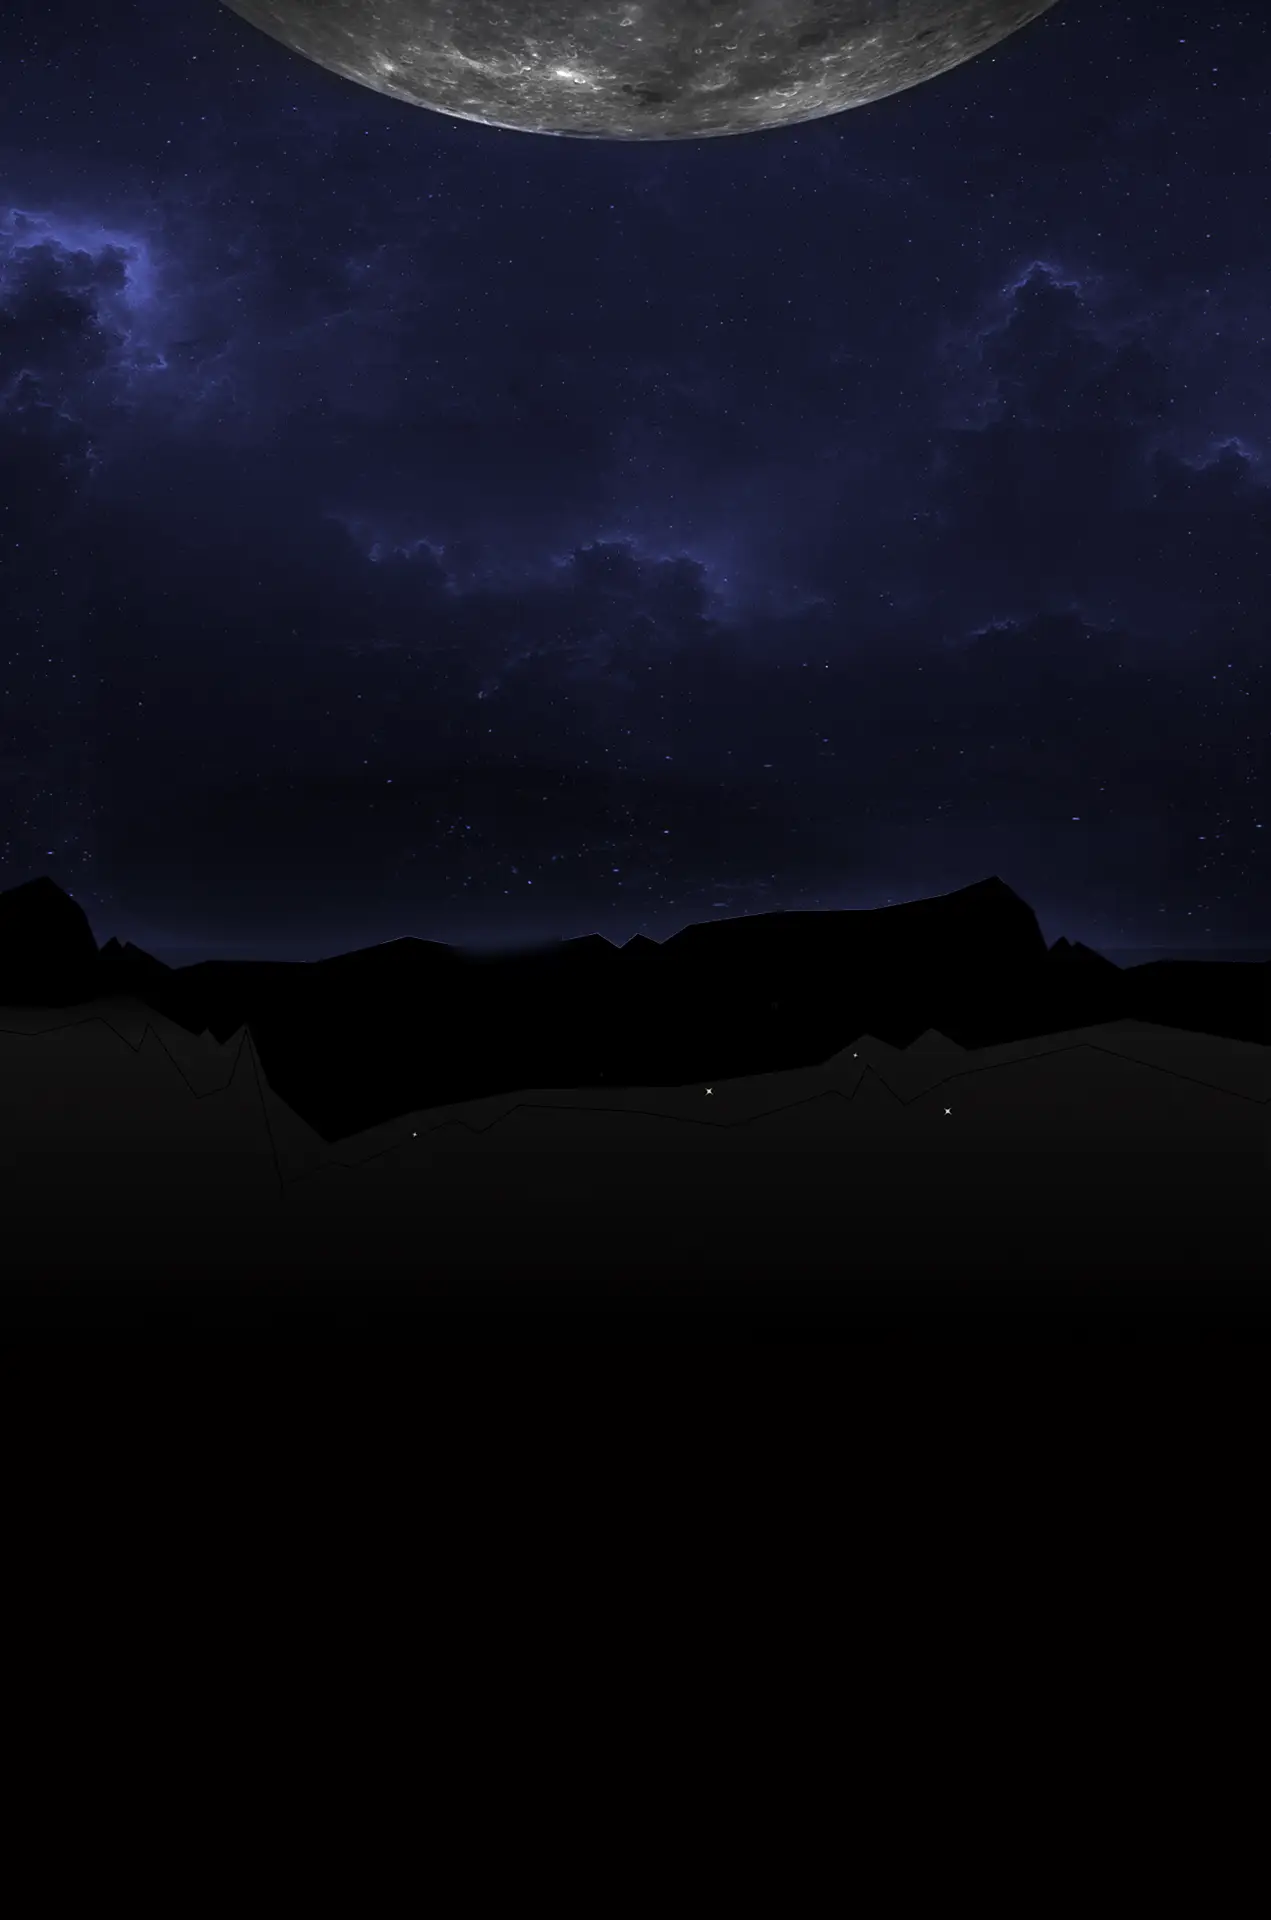
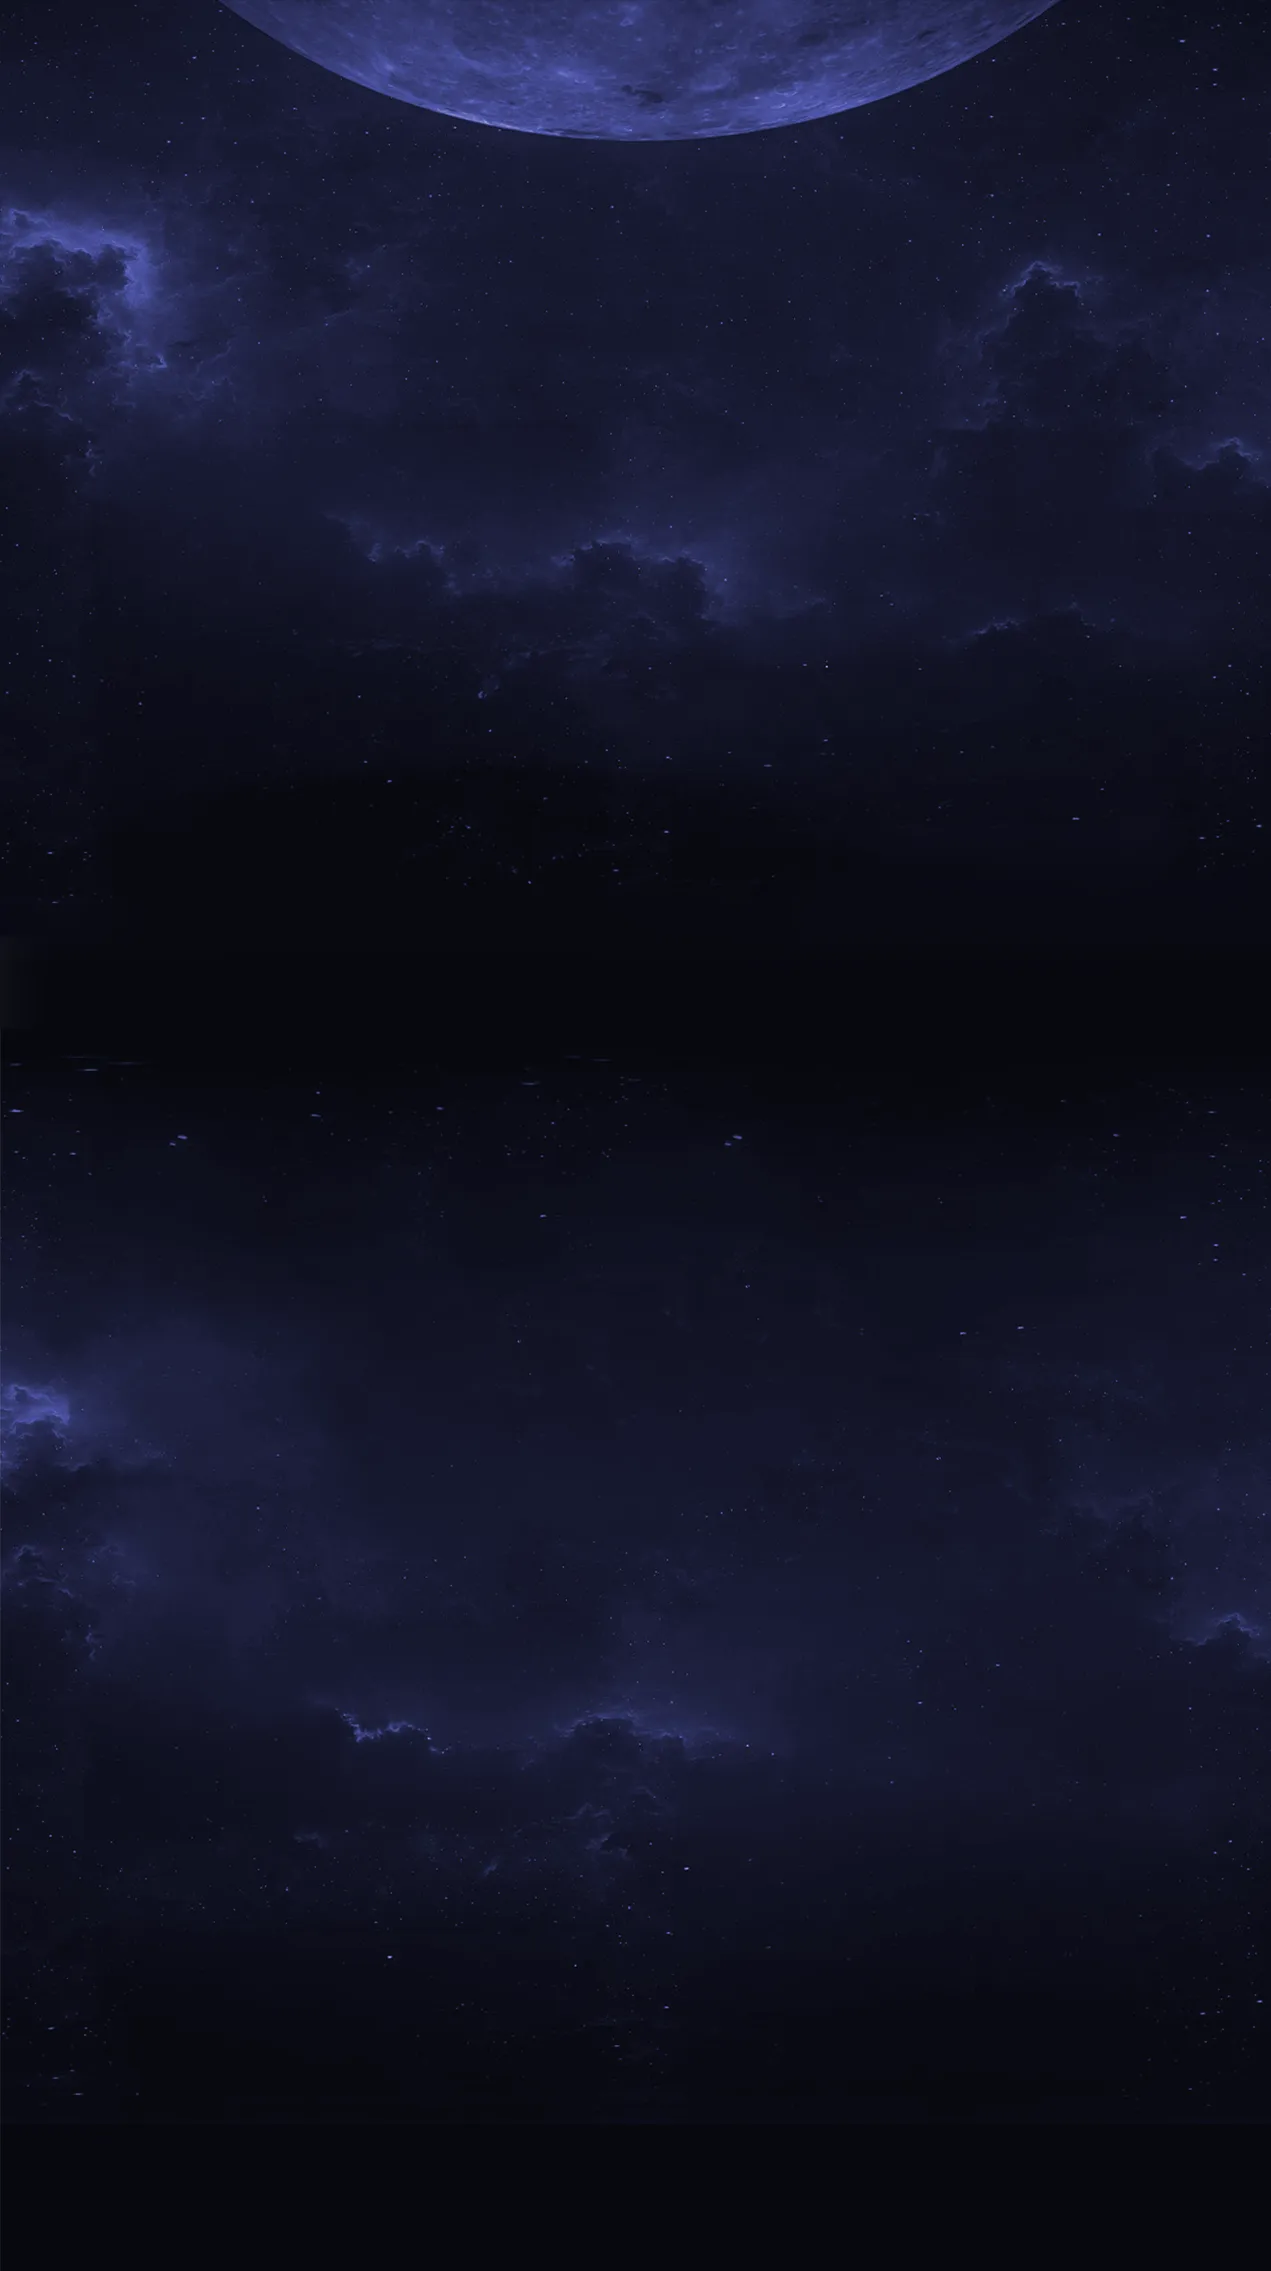
Novo fundo, campo de link mais baixo e título menor
Claude-Session: https://claude.ai/code/session_015SgQBae7spsN131puC1FfG

diff --git a/public/index.html b/public/index.html
@@ -5,7 +5,7 @@
 <meta name="viewport" content="width=device-width,initial-scale=1,viewport-fit=cover">
 <title>Space Hits</title>
 <meta name="description" content="Space Hits, by Space Media: transforme o vídeo que bombou nos próximos roteiros.">
-<meta name="theme-color" content="#030205">
+<meta name="theme-color" content="#07080E">
 <link rel="icon" type="image/png" href="/img/favicon.png">
 <link rel="preconnect" href="https://fonts.googleapis.com">
 <link rel="preconnect" href="https://fonts.gstatic.com" crossorigin>
@@ -14,7 +14,7 @@
 /* Layout: herói em duas colunas (título "Raio-X de vídeos Virais" + celular com a mão em raio-X), campo único logo abaixo e 3 cards numerados.
    Resultado em coluna única de até 760px. Visual escuro de propósito (identidade Space Media). */
 :root{
-  --void:#030205; --deep:#0E0C1D; --panel:#141127; --panel2:#1B1734; --line:#2A2547; --line2:#3A3460;
+  --void:#07080E; --deep:#0E0C1D; --panel:#141127; --panel2:#1B1734; --line:#2A2547; --line2:#3A3460;
   --text:#ECEAF6; --muted:#9F9AB9; --dim:#6D6890; --grafite:#4B4A57;
   --roxo:#7B4DFF; --azul:#3A6BFF; --ouro:#FFD400; --ouro2:#E0BC00; --ouro3:#9A8205;
   --ok:#4CD69A; --alerta:#FFB547; --perigo:#FF5C7A;
@@ -39,19 +39,19 @@ a{color:inherit}
 #ceu{position:fixed;inset:0;width:100%;height:100%;z-index:0;pointer-events:none}
 /* Fundo da Space Media: nunca ampliado além do tamanho original (1271px), para não perder nitidez.
    Em telas mais largas, as laterais se fundem no preto. */
-.fundo{position:absolute;top:0;left:50%;transform:translateX(-50%);width:min(100%,1271px);height:1860px;z-index:0;pointer-events:none;
-  background:url(/img/fundo-space.webp) center -60px/1271px auto no-repeat;
-  -webkit-mask-image:linear-gradient(#000 68%,transparent);mask-image:linear-gradient(#000 68%,transparent)}
+.fundo{position:absolute;top:0;left:50%;transform:translateX(-50%);width:min(100%,1271px);height:2271px;z-index:0;pointer-events:none;
+  background:url(/img/fundo-space.webp?v=2) center -40px/1271px auto no-repeat;
+  -webkit-mask-image:linear-gradient(#000 85%,transparent);mask-image:linear-gradient(#000 85%,transparent)}
 @media (min-width:1272px){.fundo{
-  -webkit-mask-image:linear-gradient(#000 68%,transparent),linear-gradient(90deg,transparent,#000 16%,#000 84%,transparent);-webkit-mask-composite:source-in;
-  mask-image:linear-gradient(#000 68%,transparent),linear-gradient(90deg,transparent,#000 16%,#000 84%,transparent);mask-composite:intersect}}
-@media (max-width:760px){.fundo{height:1400px;background-size:960px auto;background-position:center -40px}}
+  -webkit-mask-image:linear-gradient(#000 85%,transparent),linear-gradient(90deg,transparent,#000 16%,#000 84%,transparent);-webkit-mask-composite:source-in;
+  mask-image:linear-gradient(#000 85%,transparent),linear-gradient(90deg,transparent,#000 16%,#000 84%,transparent);mask-composite:intersect}}
+@media (max-width:760px){.fundo{height:1715px;background-size:960px auto;background-position:center -30px}}
 .camada{position:relative;z-index:1}
 .wrap{max-width:760px;margin:0 auto;padding-left:max(18px,env(safe-area-inset-left,0px));padding-right:max(18px,env(safe-area-inset-right,0px))}
 .wrap.largo{max-width:1040px}
 
 /* Cabeçalho */
-header.top{position:sticky;top:0;z-index:20;padding-top:env(safe-area-inset-top,0px);background:linear-gradient(rgba(3,2,5,.85) 30%,rgba(3,2,5,0))}
+header.top{position:sticky;top:0;z-index:20;padding-top:env(safe-area-inset-top,0px);background:linear-gradient(rgba(7,8,14,.8) 30%,rgba(7,8,14,0))}
 header.top .wrap{display:flex;align-items:center;gap:6px;padding-block:14px}
 .marca{display:flex;align-items:center;gap:10px;background:none;border:0;padding:0;cursor:pointer;color:var(--text)}
 .marca img{height:22px;width:auto;display:block}
@@ -67,7 +67,7 @@ main{padding-block:0 40px}
 .heroi{display:grid;grid-template-columns:minmax(0,1.1fr) minmax(0,.9fr);align-items:center;gap:clamp(20px,5vw,64px);width:100%}
 .heroi-txt{display:flex;flex-direction:column;gap:22px;min-width:0}
 .titulo{margin:0;line-height:0}
-.titulo img{display:block;width:min(100%,460px);height:auto;filter:drop-shadow(0 0 30px rgba(255,212,0,.12))}
+.titulo img{display:block;width:min(100%,340px);height:auto;filter:drop-shadow(0 0 30px rgba(255,212,0,.12))}
 .heroi-txt .sub{margin:0 0 0 clamp(0px,7%,60px);font-family:var(--fina);font-weight:300;font-size:clamp(17px,2vw,21px);line-height:1.45;color:#C9C5DE;max-width:24ch;text-wrap:balance}
 .heroi-txt .sub2{margin:0 0 0 clamp(0px,7%,60px);font-size:15.5px;line-height:1.5;color:var(--text);max-width:40ch}
 .heroi-txt .sub2 b{color:var(--ouro);font-weight:700}
@@ -111,16 +111,16 @@ main{padding-block:0 40px}
   .fone{width:min(250px,64vw)}
 }
 #f-link{width:100%;max-width:760px}
-.busca{position:relative;display:flex;align-items:center;gap:6px;background:rgba(20,17,39,.86);border:1.5px solid rgba(123,77,255,.7);border-radius:22px;padding:8px 8px 8px 22px;backdrop-filter:blur(8px);box-shadow:0 0 0 5px rgba(123,77,255,.1),0 18px 60px -24px rgba(58,107,255,.7);transition:border-color .2s,box-shadow .2s}
+.busca{position:relative;display:flex;align-items:center;gap:6px;background:rgba(20,17,39,.86);border:1.5px solid rgba(123,77,255,.7);border-radius:18px;padding:6px 6px 6px 20px;backdrop-filter:blur(8px);box-shadow:0 0 0 5px rgba(123,77,255,.1),0 18px 60px -24px rgba(58,107,255,.7);transition:border-color .2s,box-shadow .2s}
 .busca:focus-within{border-color:var(--roxo);box-shadow:0 0 0 1px var(--roxo),0 0 0 7px rgba(123,77,255,.18),0 18px 60px -20px rgba(58,107,255,.8)}
-.busca #in-link{flex:1;min-width:0;border:0;background:none;padding:16px 0;font-size:17px;outline:none;color:var(--text);border-radius:0}
+.busca #in-link{flex:1;min-width:0;border:0;background:none;padding:10px 0;font-size:16px;outline:none;color:var(--text);border-radius:0}
 .busca #in-link::placeholder{color:var(--dim)}
-.go{display:inline-flex;align-items:center;gap:9px;background:var(--grad);color:#fff;border:0;border-radius:15px;padding:15px 24px;font-family:var(--display);font-stretch:112%;font-weight:800;font-size:16px;cursor:pointer;white-space:nowrap;transition:filter .15s,transform .15s}
+.go{display:inline-flex;align-items:center;gap:9px;background:var(--grad);color:#fff;border:0;border-radius:13px;padding:11px 20px;font-family:var(--display);font-stretch:112%;font-weight:800;font-size:15px;cursor:pointer;white-space:nowrap;transition:filter .15s,transform .15s}
 .go:hover{filter:brightness(1.12)}
 .go:active{transform:scale(.98)}
 .go img{height:14px;width:auto}
 .go[disabled]{opacity:.55;cursor:wait}
-@media (max-width:520px){.busca{flex-wrap:wrap;padding:8px}.busca #in-link{flex-basis:100%;padding:12px 10px}.go{flex:1;justify-content:center}}
+@media (max-width:520px){.busca{flex-wrap:wrap;padding:8px}.busca #in-link{flex-basis:100%;padding:9px 10px}.go{flex:1;justify-content:center}}
 .sob{display:flex;flex-wrap:wrap;justify-content:center;align-items:center;gap:8px 18px;font-size:13px;color:var(--muted);margin-top:-14px}
 .plat{font-family:var(--mono);font-size:11.5px;letter-spacing:.14em;text-transform:uppercase;color:var(--dim)}
 .perfil-ativo{display:inline-flex;align-items:center;gap:6px;font-size:12.5px;padding:3px 4px 3px 10px;border:1px solid var(--line2);border-radius:999px;color:var(--muted)}
